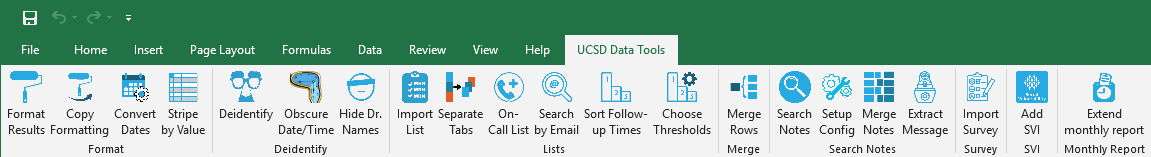
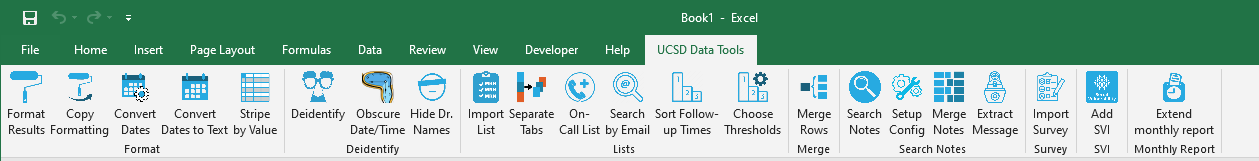
Added dates-to-text converter tool.

diff --git a/DECS Excel Add-Ins/DateConverter.cs b/DECS Excel Add-Ins/DateConverter.cs
@@ -1,12 +1,9 @@
-using System;
-using System.Collections;
+using Microsoft.Office.Interop.Excel;
+using System;
 using System.Collections.Generic;
-using System.Data;
-using System.Linq;
-using System.Text;
 using System.Text.RegularExpressions;
-using System.Threading.Tasks;
 using System.Windows.Forms;
+using Worksheet = Microsoft.Office.Interop.Excel.Worksheet;
 
 namespace DECS_Excel_Add_Ins
 {
@@ -15,6 +12,9 @@ namespace DECS_Excel_Add_Ins
      */
     internal class DateConverter
     {
+        private Microsoft.Office.Interop.Excel.Application application;
+        private int lastRow;
+        private Range selectedColumnRng;
         private IDictionary<string, string> supportedDateFormats;
 
         // https://stackoverflow.com/a/28546547/18749636
@@ -24,6 +24,8 @@ namespace DECS_Excel_Add_Ins
 
         internal DateConverter()
         {
+            application = Globals.ThisAddIn.Application;
+
             supportedDateFormats = new Dictionary<string, string>();
             supportedDateFormats.Add("MM/dd/yyyy", "(\\d{1,2}\\/\\d{1,2}\\/\\d{4})");
             supportedDateFormats.Add("MM-dd-yyyy", "(\\d{1,2}-\\d{1,2}-\\d{4})");
@@ -65,6 +67,43 @@ namespace DECS_Excel_Add_Ins
             return note;
         }
 
+        private bool FindSelectedColumn(Worksheet worksheet)
+        {
+            bool success = false;
+            lastRow = worksheet.UsedRange.Rows.Count;
+
+            // Any column selected?
+            selectedColumnRng = Utilities.GetSelectedCol(application, lastRow);
+
+            if (selectedColumnRng is null)
+            {
+                // Then ask user to select one column.
+                List<string> columnNames = Utilities.GetColumnNames(worksheet);
+
+                using (ChooseCategoryForm form = new ChooseCategoryForm(columnNames, MultiSelect: false))
+                {
+                    var result = form.ShowDialog();
+
+                    if (result == DialogResult.OK)
+                    {
+                        selectedColumnRng = Utilities.TopOfNamedColumn(worksheet, form.selectedColumns[0]);
+                        success = true;
+                    }
+                    else if (result == DialogResult.Cancel)
+                    {
+                        // Then we're done here.
+                        return success;
+                    }
+                }
+            }
+            else
+            {
+                success = true;
+            }
+
+            return success;
+        }
+
         /// <summary>
         /// Provides all the keys from the supportedDateFormats Dictionary, for use in pull-down box.
         /// </summary>
@@ -72,6 +111,45 @@ namespace DECS_Excel_Add_Ins
         internal List<string> SupportedDateFormats()
         {
             return new List<string>(supportedDateFormats.Keys);
+        }
+
+        /// <summary>
+        /// Adds new column with string version of dates in selected column.
+        /// </summary>
+        /// <param name="note">Long string of patient notes.</param>
+        /// <param name="desiredFormat">Desired date format</param>
+        /// <returns>string</returns>
+        internal void ToText(Worksheet worksheet)
+        {
+            int lastRow = worksheet.UsedRange.Rows.Count;
+
+            if (FindSelectedColumn(worksheet))
+            {
+                string selectedColumnName = selectedColumnRng.Value.ToString();
+                string newColumnName = selectedColumnName + " Text";
+
+                // Make room for new column.
+                Range ditheredColumn = Utilities.InsertNewColumn(range: selectedColumnRng,
+                                                                 newColumnName: newColumnName,
+                                                                 side: InsertSide.Right);
+                ditheredColumn.NumberFormat = "@";
+
+                DateTime sourceData;
+                Range target;
+
+                for (int rowNumber = 2; rowNumber <= lastRow; rowNumber++)
+                {
+                    target = (Range)worksheet.Cells[rowNumber, ditheredColumn.Column];
+
+                    try
+                    {
+                        sourceData = worksheet.Cells[rowNumber, selectedColumnRng.Column].Value;
+                        target.Value = sourceData.ToString("yyyy-MM-dd HH:mm:ss");
+                    }
+                    // If we can't read into a DateTime object, just skip it.
+                    catch (Microsoft.CSharp.RuntimeBinder.RuntimeBinderException) { }
+                }
+            }
         }
     }
 }

diff --git a/DECS Excel Add-Ins/DecsExcelRibbon.cs b/DECS Excel Add-Ins/DecsExcelRibbon.cs
@@ -1,14 +1,10 @@
 using DECS_Excel_Add_Ins.Properties;
 using Microsoft.Office.Core;
 using System;
-using System.Collections.Generic;
 using System.Drawing;
 using System.IO;
-using System.Linq;
 using System.Reflection;
 using System.Runtime.InteropServices;
-using System.Runtime.Serialization;
-using System.Text;
 using Excel = Microsoft.Office.Interop.Excel;
 using Office = Microsoft.Office.Core;
 
@@ -67,7 +63,7 @@ namespace DECS_Excel_Add_Ins
         {
             return Resources.slice_into_tabs;
         }
-        
+
         /// <summary>
         /// Lets the @c DexsExcelRibbon.xml point to the image for the @c CopyFormatting button.
         /// </summary>
@@ -86,6 +82,16 @@ namespace DECS_Excel_Add_Ins
         public Bitmap dateConvertButton_GetImage(IRibbonControl control)
         {
             return Resources.calendar_with_gear;
+        }
+
+        /// <summary>
+        /// Lets the @c DexsExcelRibbon.xml point to the image for the @c DateToText button.
+        /// </summary>
+        /// <param name="control">Reference to the IRibbonControl object.</param>
+        /// <returns>Bitmap</returns>
+        public Bitmap dateToTextButton_GetImage(IRibbonControl control)
+        {
+            return Resources.calendar;
         }
 
         /// <summary>
@@ -284,7 +290,7 @@ namespace DECS_Excel_Add_Ins
         /// When @c BuildList button is pressed, instantiates a @c ListImporter object & calls its @c Scan method.
         /// </summary>
         /// <param name="control">Reference to the IRibbonControl object.</param>
-        
+
         public void OnBuildList(Office.IRibbonControl control)
         {
             ListImporter importer = new ListImporter();
@@ -305,6 +311,18 @@ namespace DECS_Excel_Add_Ins
         }
 
         /// <summary>
+        /// When @c ConvertDates button is pressed, this method instantiates a @c MumpsDateConverter object & calls its @c ConvertColumn method.
+        /// </summary>
+        /// <param name="control">Reference to the IRibbonControl object.</param>
+
+        public void OnConvertDates(Office.IRibbonControl control)
+        {
+            MumpsDateConverter converter = new MumpsDateConverter();
+            Excel.Worksheet wksheet = (Excel.Worksheet)Globals.ThisAddIn.Application.ActiveSheet;
+            converter.ConvertColumn(wksheet);
+        }
+
+        /// <summary>
         /// When @c CopyFormatting button is pressed, this method instantiates a @c Formatter object & calls its @c CopyFormat method.
         /// </summary>
         /// <param name="control">Reference to the IRibbonControl object.</param>
@@ -317,15 +335,15 @@ namespace DECS_Excel_Add_Ins
         }
 
         /// <summary>
-        /// When @c ConvertDates button is pressed, this method instantiates a @c MumpsDateConverter object & calls its @c ConvertColumn method.
+        /// When @c CopyFormatting button is pressed, this method instantiates a @c DateConverter object & calls its @c ToText method.
         /// </summary>
         /// <param name="control">Reference to the IRibbonControl object.</param>
 
-        public void OnConvertDates(Office.IRibbonControl control)
+        public void OnDatesToText(Office.IRibbonControl control)
         {
-            MumpsDateConverter converter = new MumpsDateConverter();
+            DateConverter converter = new DateConverter();
             Excel.Worksheet wksheet = (Excel.Worksheet)Globals.ThisAddIn.Application.ActiveSheet;
-            converter.ConvertColumn(wksheet);
+            converter.ToText(wksheet);
         }
 
         /// <summary>
@@ -480,7 +498,7 @@ namespace DECS_Excel_Add_Ins
         /// When @c SearchNotes button is pressed, this method instantiates a @c NotesParser object & calls its @c Parse method.
         /// </summary>
         /// <param name="control">Reference to the IRibbonControl object.</param>
-        
+
         public void OnSearchNotes(Office.IRibbonControl control)
         {
             Excel.Worksheet wksheet = (Excel.Worksheet)Globals.ThisAddIn.Application.ActiveSheet;

diff --git a/DECS Excel Add-Ins/README.md b/DECS Excel Add-Ins/README.md
@@ -6,6 +6,7 @@ Creates custom buttons in Microsoft Excel that allow user to:
 * Format a page of results with bold & centered header, NULLs grayed out, etc.
 * Copy the formatting from one sheet onto the next sheet(s).
 * Convert dates from [MUMPS](https://en.wikipedia.org/wiki/MUMPS) to Excel standard.
+* Convert dates to text format for easier import into R.
 * Highlight blocks of data.
 * Generate unique, scrambled identifiers from patient or user data.
 * Dither dates/times to deidentify patients.
